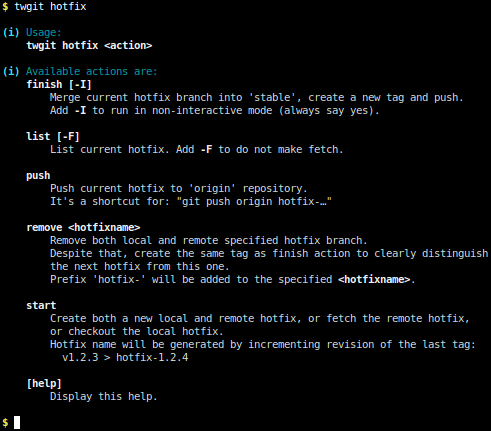
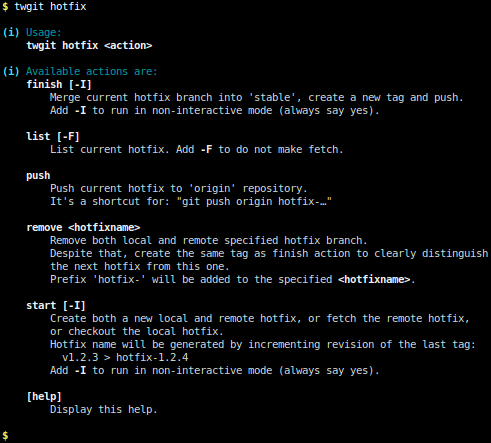
Update CHANGELOG.md, README.md and screenshots.

diff --git a/CHANGELOG.md b/CHANGELOG.md
@@ -1,6 +1,23 @@
 ChangeLog
 =========
 
+## Version 1.14.0 (2014-04-02)
+
+Features:
+
+  - [#129](https://github.com/Twenga/twgit/issues/129): Add Jira connector.
+  - [#127](https://github.com/Twenga/twgit/issues/127): Support for zsh in addition to bash.
+  - [#118](https://github.com/Twenga/twgit/issues/118): `$Id$` tag substitution à la SVN: replace all tags `$Id$` and `$Id:X.Y.Z$`
+    found in files specified by `TWGIT_VERSION_INFO_PATH` by the next version
+    on `twgit init`, `twgit release start`, and `twgit hotfix start` commands.
+  - [#117](https://github.com/Twenga/twgit/issues/117): Detect words in disorder: `twgit featuer lsit` will work.
+  - [#85](https://github.com/Twenga/twgit/issues/85): Alert on `twgit hotfix start` or `twgit release start`
+    when current user is different from creator.
+
+Unit tests:
+
+  - estimated code coverage: 34% (710 of 2112 lines).
+
 ## Version 1.13.0 (2013-10-21)
 
 Features:

diff --git a/README.md b/README.md
@@ -22,9 +22,9 @@ Feel free to contribute to it if you like.
 
 ## Requirements
 
-  - Bash v4 _(2009)_ and above
+  - Bash v4 _(2009)_ and above or zsh
   - Git v1.7.2 _(2010)_ and above
-  - php5-cli or Python 2.x for Redmine and Github connectors (can be switched off): allow to display issue's title/subject into twgit
+  - php5-cli or Python 2.x for Redmine, Github and Jira connectors (can be switched off): allow to display issue's title/subject into twgit
   - Supported operating systems: Debian/Ubuntu Linux, FreeBSD, Mac OS X
 
 ## Installing twgit
